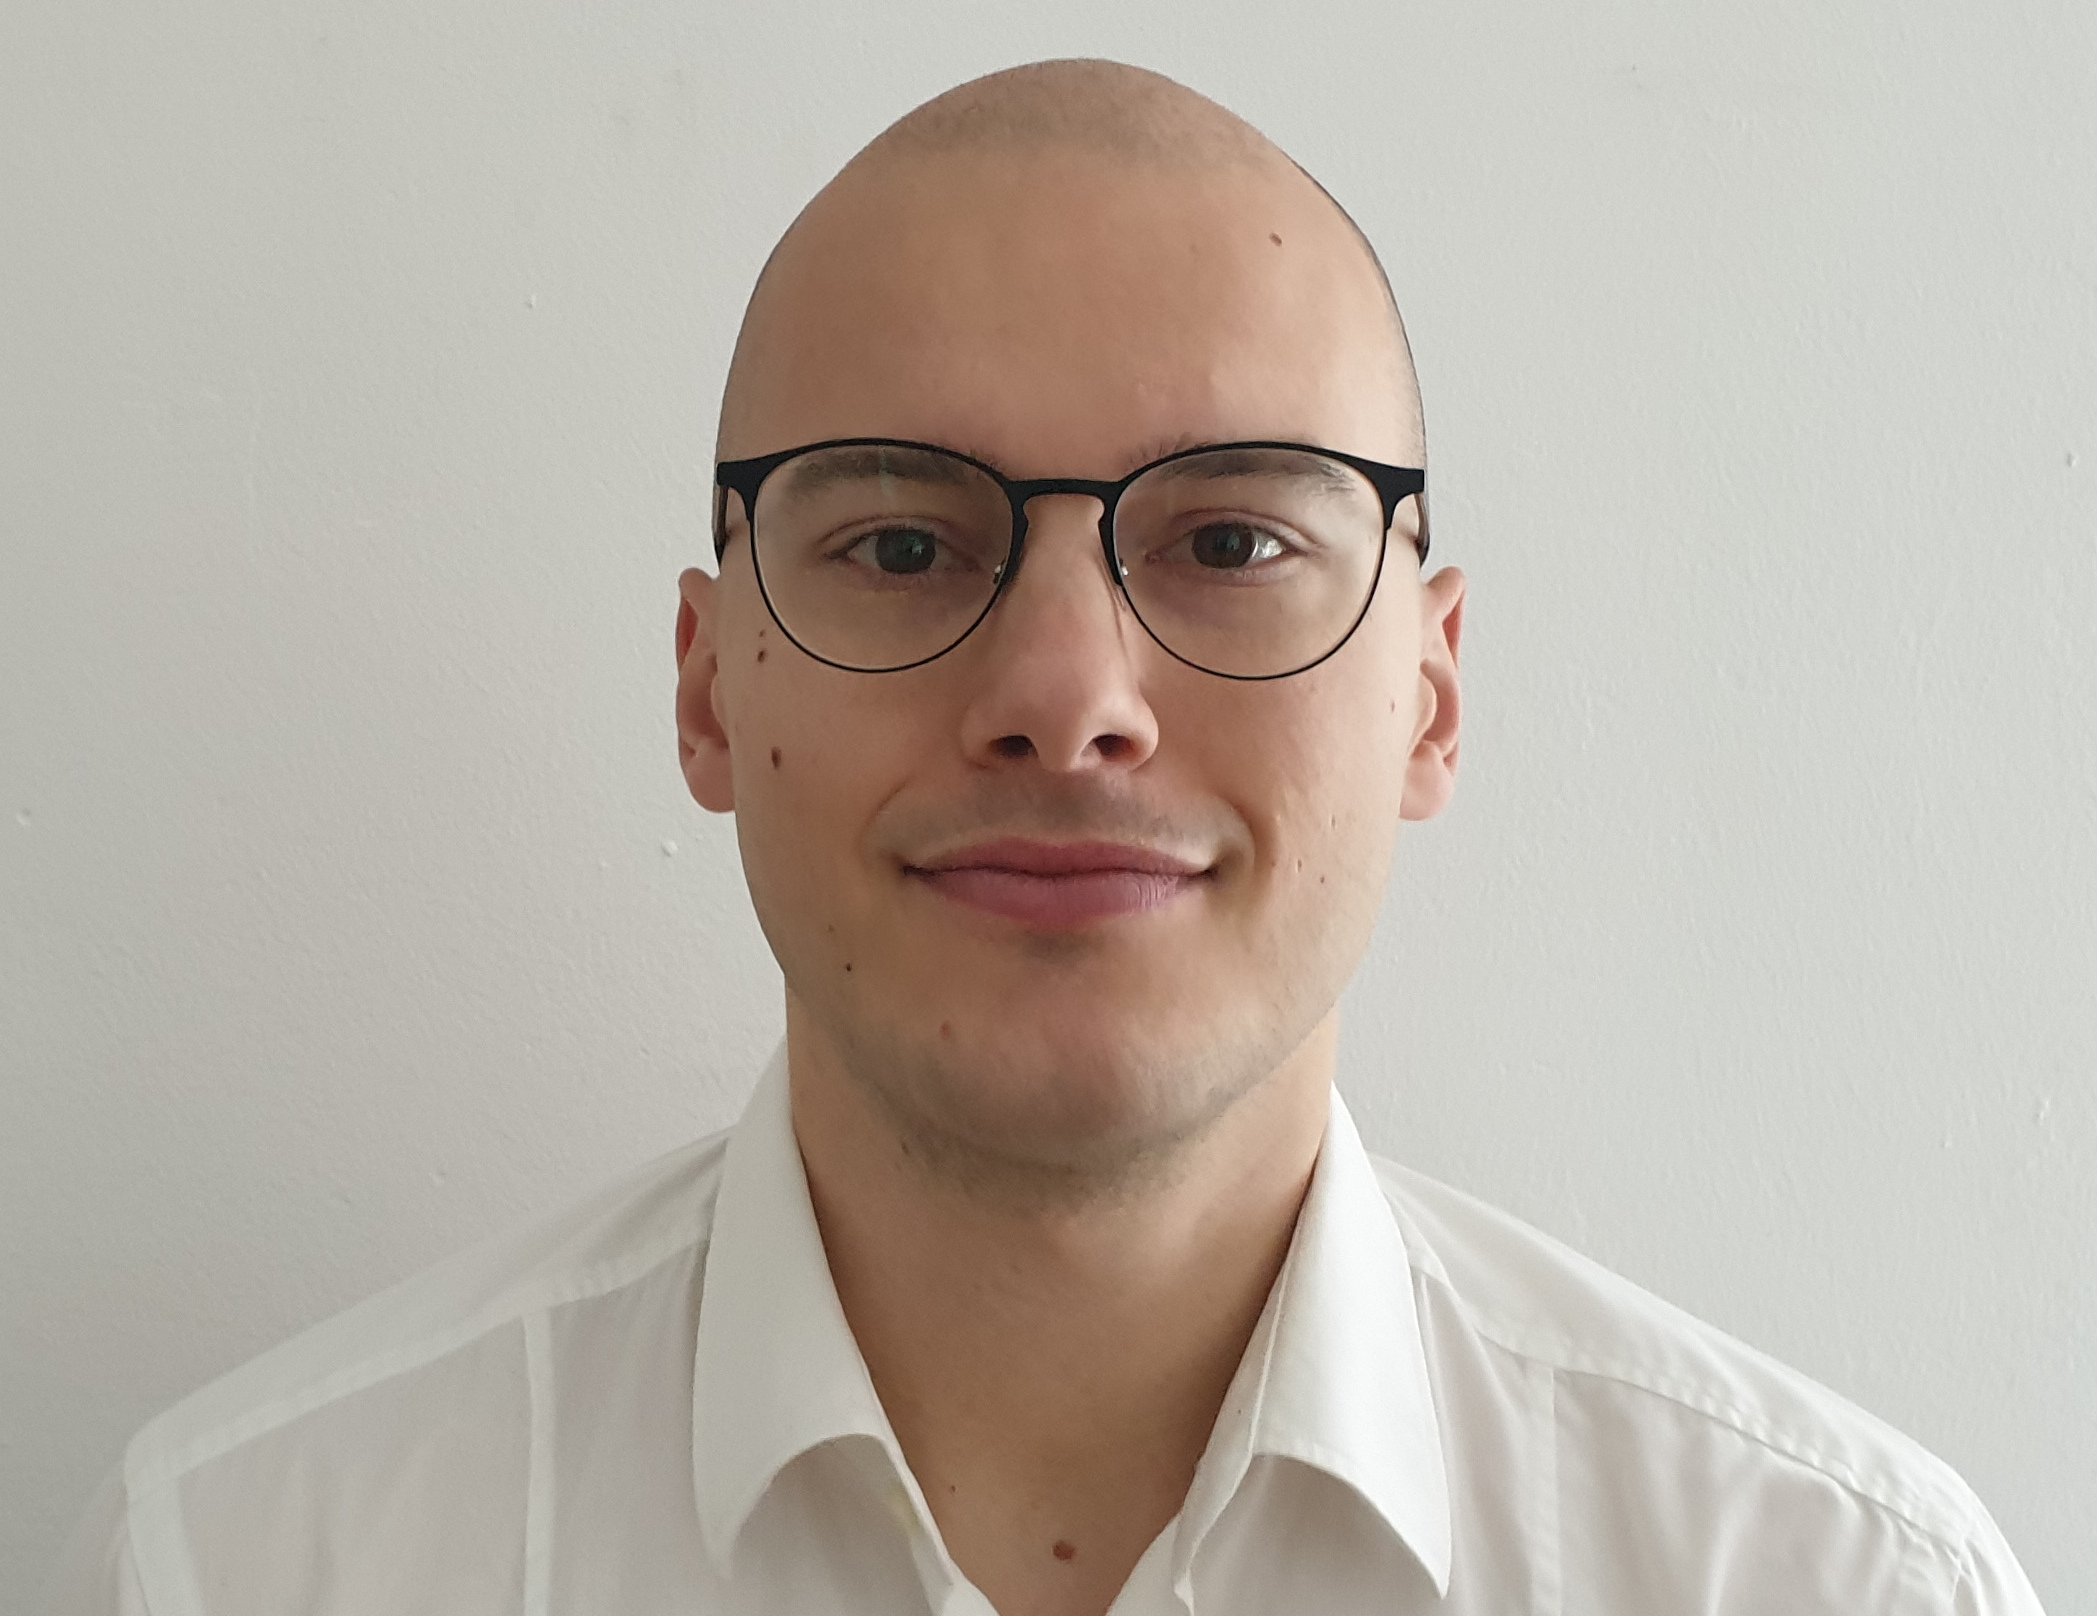
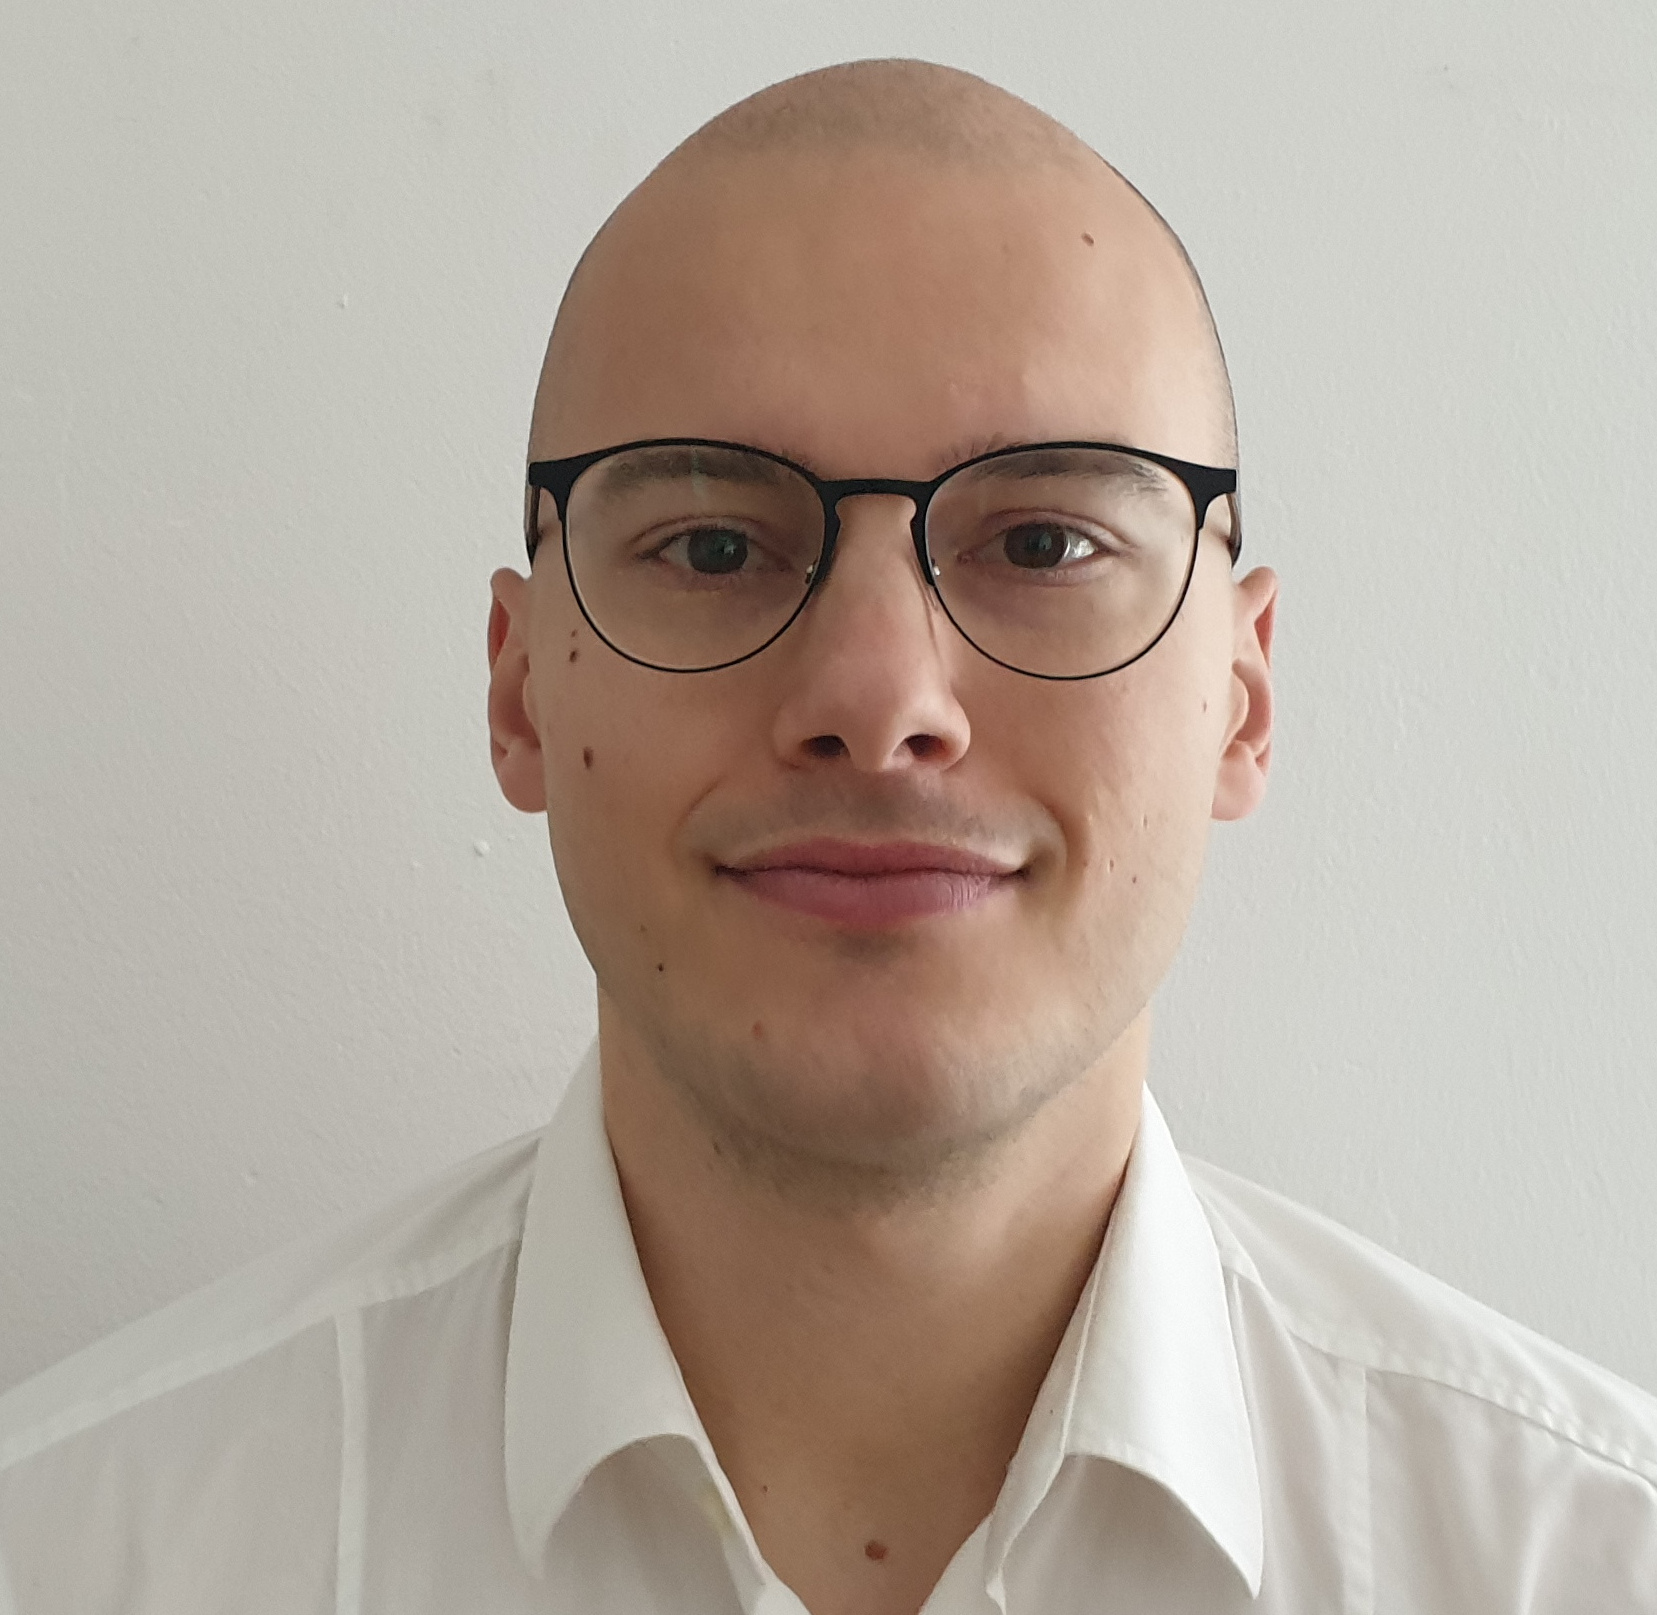
home page intro text

diff --git a/pages/index.vue b/pages/index.vue
@@ -1,5 +1,43 @@
 <template>
-  <v-container> AAAAAAAAAAAA </v-container>
+  <v-container style="margin-top: 10%">
+    <v-row>
+      <v-col cols="12" sm="6">
+        <section>
+          <div>
+            <h1><u>Hi there,👋</u></h1>
+            <h1>happy to see you here!</h1>
+          </div>
+          <div>
+            <p>
+              My name is Matthias and I'm a computer science student from
+              austria.
+            </p>
+            <p>
+              I'm currently in my third semester of the bachelor course
+              <a
+                target="_blank"
+                href="https://www.fh-campuswien.ac.at/en/studies/study-courses/detail/computer-science-and-digital-communications-berufsbegleitend.html?tx_asfhcw_course%5Bcontroller%5D=Course&also=&cHash=238d8bb01497e1faea2295ea25552bcc"
+              >
+                Computer Science & Digital Communication
+              </a>
+            </p>
+            <p>
+              In my late 20s I decided to change career from technical
+              engineering to information technology, the best decision of my
+              life so far!
+            </p>
+            <p>I love to learn new things and especialy in developing</p>
+          </div>
+        </section>
+      </v-col>
+      <v-col cols="12" sm="6">
+        <v-img
+          style="border-radius: 50%"
+          :src="require('@/assets/images/profile_lessFormal.jpg')"
+        />
+      </v-col>
+    </v-row>
+  </v-container>
 </template>
 
 <script>

diff --git a/layouts/default.vue b/layouts/default.vue
@@ -67,6 +67,7 @@
 export default {
   data() {
     return {
+      drawer: false,
       items: [
         {
           icon: 'mdi-home',
